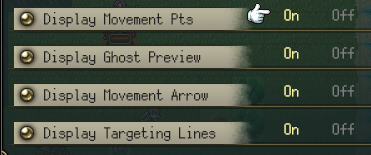
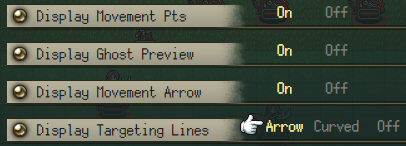
Update movement ui options with curved lines.  curved. lines.

diff --git a/Movement UI Options/Plugin/movement-ui-options.js b/Movement UI Options/Plugin/movement-ui-options.js
@@ -67,7 +67,8 @@ SRPG Studio Version:1.144
 - Cleaned up the code a lot.
 
 2020-04-19:
-- Make targeting lines with proper arrowheads, removed other options like beziers
+- Make targeting lines with proper arrowheads
+- Updated and added back bezier curves as a targeting line option
 - Add bugfix by Repeat for Ghost Preview
 
 --------------------------------------------------------------------------*/
@@ -155,7 +156,7 @@ MapSequenceArea._initMovementLocus = function() {
 	this._movementLocus.goalX = this._targetUnit.getMapX();
 	this._movementLocus.goalY = this._targetUnit.getMapY();
 
-	if (!ConfigItem.TargetingLines.getFlagValue()) {
+	if (!ConfigItem.TargetingLines.isDisabled()) {
 		this._setupTargetingLines(CurrentMap.getIndex(this._movementLocus.goalX, this._movementLocus.goalY));
 	}
 };
@@ -184,7 +185,7 @@ MapSequenceArea._drawMoveUnit = function(direction) {
 
 	// Unit remains in original tile
 	// By default, the unit is using the idle animation
-	if (!ConfigItem.MovementArrow.getFlagValue()) {
+	if (!ConfigItem.MovementArrow.isDisabled()) {
 		if (this._targetUnit.getUnitType() == UnitType.PLAYER) {
 			unitRenderParam.direction = MapSequenceArea._getDefaultDirection();
 			unitRenderParam.animationIndex = MapLayer.getAnimationIndexFromUnit(this._targetUnit);
@@ -194,7 +195,7 @@ MapSequenceArea._drawMoveUnit = function(direction) {
 	}
 
 	// Ghost Preview (like in 3DS games) appears under cursor, at half opacity
-	if (!ConfigItem.GhostPreview.getFlagValue()) {
+	if (!ConfigItem.GhostPreview.isDisabled()) {
 		if (direction == null || this._targetUnit.getUnitType() != UnitType.PLAYER) {
 			// only player units get the ghost preview
 		} else {
@@ -206,7 +207,7 @@ MapSequenceArea._drawMoveUnit = function(direction) {
 	}
 
 	// Show remaining Movement Points if the flag is set in config-movepoint.js (From the Official plugins)
-	if (this._movementLocus.movePoint != null && this._isTargetMovable() && !ConfigItem.MovePointVisible.getFlagValue()) {
+	if (this._movementLocus.movePoint != null && this._isTargetMovable() && !ConfigItem.MovePointVisible.isDisabled()) {
 		var remainingMove = this._unitMovParameter - this._movementLocus.movePoint;
 		// Accounting for canto
 		if(this._parentTurnObject.isRepeatMoveMode()){ 
@@ -221,7 +222,7 @@ MapSequenceArea._drawMoveUnit = function(direction) {
 	}
 	
 	// draw target lines
-	if (!ConfigItem.TargetingLines.getFlagValue()) {
+	if (!ConfigItem.TargetingLines.isDisabled()) {
 		for (var i = 0; i < this._targetLineArray.length; i++) {
 			this._targetLineArray[i].drawShape();
 		}
@@ -260,14 +261,14 @@ MapSequenceArea._moveArea = function() {
 			goalIndex = CurrentMap.getIndex(currentMapCursorX, currentMapCursorY);
 			CourceBuilder.updateMovementLocus(this._targetUnit, goalIndex, newCourceSimulator, this._addCourceSimulator, this._movementLocus);
 
-			if (!ConfigItem.TargetingLines.getFlagValue()) {
+			if (!ConfigItem.TargetingLines.isDisabled()) {
 				this._setupTargetingLines(goalIndex);
 			}
 		} else {
 			this._initMovementLocus();
 
 			// don't draw targeting lines if the cursor is over an enemy unit or other invalid move area
-			if (!ConfigItem.TargetingLines.getFlagValue()) {
+			if (!ConfigItem.TargetingLines.isDisabled()) {
 				this._targetLineArray = [];
 			}
 		}
@@ -340,7 +341,7 @@ MapSequenceArea._setupTargetingLines = function(goalIndex) {
 
 			// if enemy is in range, prepare the target line between the enemy and the cursor position
 			if (inEnemyRange) {
-				var bezier = defineObject(BaseShape,
+				var arrow = defineObject(BaseShape,
 				{
 					_figure: null,
 					_color: 0xff00000,		// colour of arrow
@@ -349,42 +350,112 @@ MapSequenceArea._setupTargetingLines = function(goalIndex) {
 					_strokeAlpha: 128,		// opacity of arrow outline
 					_strokeWeight: 3,		// width of arrow outline
 
-					// Straight lines with arrowheads
+
+					
 					setupShape: function(x1, y1, x2, y2) {
-						// calculating the slope and unit vector [dx, dy]...
-						var dx = x2-x1;
-						var dy = y2-y1;
-						var dist = Math.sqrt(dx*dx + dy*dy);
-						if (dist == 0) return; // prevent division by zero errors
-						dx /= dist;
-						dy /= dist;
+						if (ConfigItem.TargetingLines.getFlagValue() == 0) {
+							// Straight lines with arrowheads
 
-						// change these parameters to change the shape of the arrow
-						var lineStartingPoint = 16; 					// how far away from the originating unit to start drawing the line
-						var arrowBaseLength = Math.max(24, dist - 32); 	// how far away from the destination unit to start drawing the arrowhead
-						var arrowTipLength = Math.max(32, dist - 24); 	// how far away from the destination unit to draw the tip of the arrowhead
-						var arrowWidth = 8; 							// width of the arrowhead
+							// calculating the slope and unit vector [dx, dy]...
+							var dx = x2-x1;
+							var dy = y2-y1;
+							var dist = Math.sqrt(dx*dx + dy*dy);
+							if (dist == 0) return; // prevent division by zero errors
+							dx /= dist;
+							dy /= dist;
 
-						// calculating the polygon points...
-						var mid = GraphicsFormat.MAPCHIP_WIDTH / 2;
-						var lineBaseX = x1+mid + lineStartingPoint*dx;
-						var lineBaseY = y1+mid + lineStartingPoint*dy;
-						var arrowBaseX = x1+mid + arrowBaseLength*dx;
-						var arrowBaseY = y1+mid + arrowBaseLength*dy;
-						var arrowTipX = x1+mid + arrowTipLength*dx;
-						var arrowTipY = y1+mid + arrowTipLength*dy;
+							// change these parameters to change the shape of the arrow
+							var lineStartingPoint = 16; 					// how far away from the originating unit to start drawing the line
+							var arrowBaseLength = Math.max(24, dist - 32); 	// how far away from the destination unit to start drawing the arrowhead
+							var arrowTipLength = Math.max(32, dist - 24); 	// how far away from the destination unit to draw the tip of the arrowhead
+							var arrowWidth = 8; 							// width of the arrowhead
 
-						// create polygon
-						var canvas = root.getGraphicsManager().getCanvas();
-						this._figure = canvas.createFigure();
-						this._figure.beginFigure(lineBaseX, lineBaseY);
-						this._figure.addLine(arrowBaseX, arrowBaseY);
-						this._figure.addLine(arrowBaseX + arrowWidth/2*dy, arrowBaseY - arrowWidth/2*dx);
-						this._figure.addLine(arrowTipX, arrowTipY);
-						this._figure.addLine(arrowBaseX - arrowWidth/2*dy, arrowBaseY + arrowWidth/2*dx);
-						this._figure.addLine(arrowBaseX, arrowBaseY);
-						this._figure.addLine(lineBaseX, lineBaseY);
-						this._figure.endFigure();
+							// calculating the polygon points...
+							var mid = GraphicsFormat.MAPCHIP_WIDTH / 2;
+							var lineBaseX = x1+mid + lineStartingPoint*dx;
+							var lineBaseY = y1+mid + lineStartingPoint*dy;
+							var arrowBaseX = x1+mid + arrowBaseLength*dx;
+							var arrowBaseY = y1+mid + arrowBaseLength*dy;
+							var arrowTipX = x1+mid + arrowTipLength*dx;
+							var arrowTipY = y1+mid + arrowTipLength*dy;
+
+							// create polygon
+							var canvas = root.getGraphicsManager().getCanvas();
+							this._figure = canvas.createFigure();
+							this._figure.beginFigure(lineBaseX, lineBaseY);
+							this._figure.addLine(arrowBaseX, arrowBaseY);
+							this._figure.addLine(arrowBaseX + arrowWidth/2*dy, arrowBaseY - arrowWidth/2*dx);
+							this._figure.addLine(arrowTipX, arrowTipY);
+							this._figure.addLine(arrowBaseX - arrowWidth/2*dy, arrowBaseY + arrowWidth/2*dx);
+							this._figure.addLine(arrowBaseX, arrowBaseY);
+							this._figure.addLine(lineBaseX, lineBaseY);
+							this._figure.endFigure();
+						} else if (ConfigItem.TargetingLines.getFlagValue() == 1) {
+							// Hyperbolic curved lines without arrowheads
+
+							// calculating the slope and unit vector [dx, dy]...
+							var deltaX = x2-x1;
+							var deltaY = y2-y1;
+							var dist = Math.sqrt(deltaX*deltaX + deltaY*deltaY);
+							if (dist == 0) return; // prevent division by zero errors
+							var dx = deltaX / dist;
+							var dy = deltaY / dist;
+
+							// change these parameters to change the shape of the arrow
+							var yThreshold = -64;							// When negative, line will curve "up" even if the enemy is below the player
+																			// We like to set it negative because "upwards" curving arcs seem more aesthetic
+							var xThreshold = 0;
+							var curviness = Math.max(0, dist); 				// higher curviness = taller "arc"
+							var curviness2 = Math.max(0, dist);				// if curviness2 is different than curviness, then the curve will have variable thickness
+
+							// some graphic issues appear when the two units are too close together because beziers tend to 'overshoot' the endpoints
+							if (dist < 96) { 
+								curviness = 0;
+								curviness2 = 0;
+							}
+
+							// Flip some curves because "upwards" curving arcs seem more aesthetic
+							if (deltaX < xThreshold && deltaY >= yThreshold || deltaX >= xThreshold && deltaY < yThreshold) {
+								curviness *= -1;
+								curviness2 *= -1;
+							}
+
+							// calculating the polygon points...
+							var mid = GraphicsFormat.MAPCHIP_WIDTH / 2;
+							var lineBaseX = x1+mid;
+							var lineBaseY = y1;
+							var lineEndX = x2+mid;
+							var lineEndY = y2+mid;
+
+							if (curviness > 0) {
+								if (deltaX > xThreshold && deltaY > yThreshold) {
+									lineEndX = x2;
+									lineEndY = y2;
+								} else if (deltaX > xThreshold && deltaY < yThreshold) {
+									lineEndX = x2;
+									lineEndY = y2+GraphicsFormat.MAPCHIP_HEIGHT;
+								} else if (deltaX < xThreshold && deltaY > yThreshold) {
+									lineEndX = x2+GraphicsFormat.MAPCHIP_WIDTH;
+									lineEndY = y2;
+								} else if (deltaX < xThreshold && deltaY < yThreshold) {
+									lineEndX = x2+GraphicsFormat.MAPCHIP_WIDTH;
+									lineEndY = y2+GraphicsFormat.MAPCHIP_HEIGHT;
+								}
+							} else {
+								lineBaseX = x1+mid;
+								lineBaseY = y1+mid;
+							}
+
+
+
+							// create polygon
+							var canvas = root.getGraphicsManager().getCanvas();
+							this._figure = canvas.createFigure();
+							this._figure.beginFigure(lineBaseX, lineBaseY);
+							this._figure.addBezier(lineBaseX, lineBaseY, (lineEndX + lineBaseX)/2 - curviness/2*dy, (lineEndY + lineBaseY)/2 - curviness/2*dx, lineEndX, lineEndY);
+							this._figure.addBezier(lineEndX, lineEndY, (lineEndX + lineBaseX)/2 - curviness2/2*dy, (lineEndY + lineBaseY)/2 - curviness2/2*dx, lineBaseX, lineBaseY);
+							this._figure.endFigure();
+						}
 					},
 					
 					drawShape: function() {
@@ -402,8 +473,8 @@ MapSequenceArea._setupTargetingLines = function(goalIndex) {
 				var cx = currentMapCursorX * GraphicsFormat.MAPCHIP_WIDTH - root.getCurrentSession().getScrollPixelX();
 				var cy = currentMapCursorY * GraphicsFormat.MAPCHIP_HEIGHT - root.getCurrentSession().getScrollPixelY();
 
-				bezier.setupShape(ex, ey, cx, cy);
-				this._targetLineArray.appendObject(bezier);
+				arrow.setupShape(ex, ey, cx, cy);
+				this._targetLineArray.appendObject(arrow);
 			}
 		}
 	}
@@ -473,7 +544,7 @@ MapSequenceArea._drawArea = function() {
  *  direction_idが想定外の値だった場合は何も描画を行いません
  */
 MapSequenceArea._drawEndPointMovementLocus = function(x, y, direction_id) {
-	if (!ConfigItem.MovementArrow.getFlagValue()) {
+	if (!ConfigItem.MovementArrow.isDisabled()) {
 		switch (direction_id) {
 			case DirectionType.LEFT: // 左方向の矢印描画
 				this._allowPic.drawParts(x, y, MOVE_ALLOW_SETTING.EndPoint.Left[0], MOVE_ALLOW_SETTING.EndPoint.Left[1], GraphicsFormat.MAPCHIP_WIDTH, GraphicsFormat.MAPCHIP_HEIGHT);
@@ -506,7 +577,7 @@ MapSequenceArea._drawEndPointMovementLocus = function(x, y, direction_id) {
  *  direction_idとnext_idの値の組み合わせが想定外だった場合は何も描画を行いません
  */
 MapSequenceArea._drawLineMovementLocus = function(x, y, next_id, direction_id) {
-	if (!ConfigItem.MovementArrow.getFlagValue()) {
+	if (!ConfigItem.MovementArrow.isDisabled()) {
 		if ((direction_id === DirectionType.LEFT && next_id === DirectionType.BOTTOM) || (direction_id === DirectionType.TOP && next_id === DirectionType.RIGHT)) {// 下方向-右方向曲線を描画
 			this._allowPic.drawParts(x, y, MOVE_ALLOW_SETTING.Line.DownRight[0], MOVE_ALLOW_SETTING.Line.DownRight[1], GraphicsFormat.MAPCHIP_WIDTH, GraphicsFormat.MAPCHIP_HEIGHT);
 		} else if ((direction_id === DirectionType.LEFT && next_id === DirectionType.TOP) || (direction_id === DirectionType.BOTTOM && next_id === DirectionType.RIGHT)) {// 上方向-右方向曲線を描画
@@ -535,7 +606,7 @@ MapSequenceArea._drawLineMovementLocus = function(x, y, next_id, direction_id) {
  *  next_idが想定外の値だった場合は何も描画を行いません
  */
 MapSequenceArea._drawStartPointMovementLocus = function(x, y, next_id) {
-	if (!ConfigItem.MovementArrow.getFlagValue()) {
+	if (!ConfigItem.MovementArrow.isDisabled()) {
 		switch (next_id) {
 			case DirectionType.LEFT: // 左方向の始点描画
 				this._allowPic.drawParts(x, y, MOVE_ALLOW_SETTING.StartPoint.Left[0], MOVE_ALLOW_SETTING.StartPoint.Left[1], GraphicsFormat.MAPCHIP_WIDTH, GraphicsFormat.MAPCHIP_HEIGHT);
@@ -811,6 +882,10 @@ The code to do so is in "Show Movement.js"
 	
 	ConfigItem.MovePointVisible = defineObject(BaseConfigtItem,
 	{
+		isDisabled: function() {
+			return this.getFlagValue() == 1;
+		},
+
 		selectFlag: function(index) {
 			root.getExternalData().env.movePointVisible = index;
 		},
@@ -839,6 +914,10 @@ The code to do so is in "Show Movement.js"
 	
 	ConfigItem.GhostPreview = defineObject(BaseConfigtItem,
 	{
+		isDisabled: function() {
+			return this.getFlagValue() == 1;
+		},
+
 		selectFlag: function(index) {
 			root.getExternalData().env.GhostPreview = index;
 		},
@@ -866,6 +945,10 @@ The code to do so is in "Show Movement.js"
 	
 	ConfigItem.MovementArrow = defineObject(BaseConfigtItem,
 	{
+		isDisabled: function() {
+			return this.getFlagValue() == 1;
+		},
+
 		selectFlag: function(index) {
 			root.getExternalData().env.MovementArrow = index;
 		},
@@ -893,20 +976,24 @@ The code to do so is in "Show Movement.js"
 
 	ConfigItem.TargetingLines = defineObject(BaseConfigtItem,
 	{
+		isDisabled: function() {
+			return this.getFlagValue() == 2;
+		},
+
 		selectFlag: function(index) {
 			root.getExternalData().env.TargetingLines = index;
 		},
 		
 		getFlagValue: function() {
 			if (typeof root.getExternalData().env.TargetingLines !== 'number') {
-				return 1;
+				return 2;
 			}
 		
 			return root.getExternalData().env.TargetingLines;
 		},
 		
 		getFlagCount: function() {
-			return 2;
+			return 3;
 		},
 		
 		getConfigItemTitle: function() {
@@ -915,6 +1002,10 @@ The code to do so is in "Show Movement.js"
 		
 		getConfigItemDescription: function() {
 			return 'Displays enemies that can target your unit';
+		},
+
+		getObjectArray: function() {
+			return ["Arrow", "Curved", "Off"];
 		}
 	});
 })();

diff --git a/Movement UI Options/README.md b/Movement UI Options/README.md
@@ -34,9 +34,12 @@ All four features are independent so please pick and choose whichever combinatio
 
 ![Targeting Arrows][3]
 
+![Targeting Lines][4]
+
 [1]: Options.png
 [2]: MoveArrow+RemainingMovement+GhostPreview.png
 [3]: TargetingArrows.png
+[4]: TargetingArrowsCurved.png
 
 
 ## Usage
@@ -104,7 +107,8 @@ Usage rights are the same as the original Japanese script, below is the Google T
 
 2020-04-19:
 
-- Make targeting lines with proper arrowheads, removed other options like beziers
+- Make targeting lines with proper arrowheads
+- Updated and added back bezier curves as a targeting line option
 - Add bugfix by Repeat for Ghost Preview
 
 ## Original Readme and Changelog for "Movement Arrows" plugin by Cube
